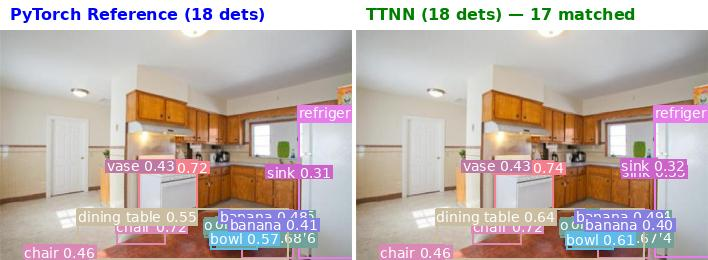
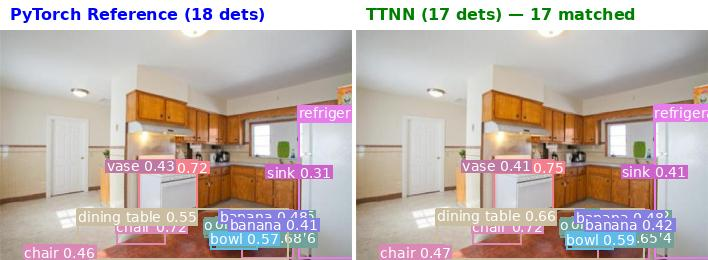
Fix in backbone and neck

diff --git a/models/experimental/dino_5scale_swin_l/tt/tt_neck.py b/models/experimental/dino_5scale_swin_l/tt/tt_neck.py
@@ -205,10 +205,8 @@ class TtDINONeck:
 
     def _conv1x1_gn(self, x, conv_params, in_ch, level_idx):
         """1x1 Conv2d (HEIGHT_SHARDED) + GroupNorm (DRAM Welford). NCHW in/out."""
-        N, C, H, W = x.shape
-
-        nhwc = ttnn.permute(x, (0, 2, 3, 1))
-        nhwc = ttnn.to_memory_config(nhwc, ttnn.DRAM_MEMORY_CONFIG)
+        # N, C, H, W = x.shape
+        N, H, W, C = x.shape
 
         shard_grid = get_shard_grid_from_num_cores(64, self.device)
         conv_config = ttnn.Conv2dConfig(
@@ -222,7 +220,7 @@ class TtDINONeck:
         conv_config.override_sharding_config = True
 
         [output, [out_h, out_w], [conv_params["weight"], conv_params["bias"]]] = ttnn.conv2d(
-            input_tensor=nhwc,
+            input_tensor=x,
             weight_tensor=conv_params["weight"],
             bias_tensor=conv_params["bias"],
             in_channels=in_ch,
@@ -246,10 +244,8 @@ class TtDINONeck:
 
     def _conv3x3_s2_gn(self, x, conv_params, in_ch, level_idx):
         """3x3 stride-2 Conv2d (BLOCK_SHARDED) + GroupNorm (DRAM). NCHW in/out."""
-        N, C, H, W = x.shape
-
-        nhwc = ttnn.permute(x, (0, 2, 3, 1))
-        nhwc = ttnn.to_memory_config(nhwc, ttnn.DRAM_MEMORY_CONFIG)
+        # N, C, H, W = x.shape
+        N, H, W, C = x.shape
 
         conv_config = ttnn.Conv2dConfig(
             weights_dtype=ttnn.bfloat16,
@@ -261,7 +257,7 @@ class TtDINONeck:
         )
 
         [output, [out_h, out_w], [conv_params["weight"], conv_params["bias"]]] = ttnn.conv2d(
-            input_tensor=nhwc,
+            input_tensor=x,
             weight_tensor=conv_params["weight"],
             bias_tensor=conv_params["bias"],
             in_channels=in_ch,

diff --git a/models/experimental/swin_l/tt/tt_swin_attention.py b/models/experimental/swin_l/tt/tt_swin_attention.py
@@ -95,7 +95,7 @@ class TtSwinAttention:
             self.parameters["qkv"]["weight"],
             bias=self.parameters["qkv"]["bias"],
             compute_kernel_config=ttnn.WormholeComputeKernelConfig(
-                math_fidelity=ttnn.MathFidelity.HiFi2, fp32_dest_acc_en=False, packer_l1_acc=True
+                math_fidelity=ttnn.MathFidelity.HiFi4, fp32_dest_acc_en=False, packer_l1_acc=True
             ),
             core_grid=ttnn.CoreGrid(y=8, x=8),
             memory_config=ttnn.DRAM_MEMORY_CONFIG,
@@ -119,7 +119,7 @@ class TtSwinAttention:
             q,
             k,
             compute_kernel_config=ttnn.WormholeComputeKernelConfig(
-                math_fidelity=ttnn.MathFidelity.LoFi, fp32_dest_acc_en=False, packer_l1_acc=True
+                math_fidelity=ttnn.MathFidelity.HiFi4, fp32_dest_acc_en=False, packer_l1_acc=True
             ),
             core_grid=ttnn.CoreGrid(y=8, x=8),
             memory_config=ttnn.DRAM_MEMORY_CONFIG,
@@ -144,7 +144,7 @@ class TtSwinAttention:
             attn,
             v,
             compute_kernel_config=ttnn.WormholeComputeKernelConfig(
-                math_fidelity=ttnn.MathFidelity.LoFi, fp32_dest_acc_en=False
+                math_fidelity=ttnn.MathFidelity.HiFi4, fp32_dest_acc_en=False
             ),
             core_grid=ttnn.CoreGrid(y=8, x=8),
             memory_config=ttnn.L1_MEMORY_CONFIG,

diff --git a/models/experimental/dino_5scale_swin_l/tests/pcc/test_ttnn_backbone.py b/models/experimental/dino_5scale_swin_l/tests/pcc/test_ttnn_backbone.py
@@ -87,6 +87,7 @@ def test_ttnn_swin_l_backbone_e2e(device, swin_l_ref, swin_l_ckpt_path, reset_se
     pcc_threshold = 0.97
     for i, (torch_feat, ttnn_feat) in enumerate(zip(torch_feats, ttnn_feats)):
         ttnn_out = ttnn.to_torch(ttnn.from_device(ttnn_feat))
+        ttnn_out = ttnn_out.permute(0, 3, 1, 2)
         assert (
             ttnn_out.shape == torch_feat.shape
         ), f"Stage {i} shape mismatch: TTNN {ttnn_out.shape} vs PyTorch {torch_feat.shape}"

diff --git a/models/experimental/swin_l/tt/tt_backbone.py b/models/experimental/swin_l/tt/tt_backbone.py
@@ -125,7 +125,7 @@ class TtSwinLBackbone:
         compute_config = ttnn.init_device_compute_kernel_config(
             self.device.arch(),
             math_fidelity=ttnn.MathFidelity.HiFi2,
-            fp32_dest_acc_en=True,
+            fp32_dest_acc_en=False,
             packer_l1_acc=True,
             math_approx_mode=False,
         )

diff --git a/models/experimental/dino_5scale_swin_l/tt/tt_encoder.py b/models/experimental/dino_5scale_swin_l/tt/tt_encoder.py
@@ -15,7 +15,7 @@ import torch
 import ttnn
 from loguru import logger
 
-UPLOAD_CHUNK_QUERIES = 1024
+UPLOAD_CHUNK_QUERIES = 64
 
 
 def decoder_deformable_attn_compute_optimized(
